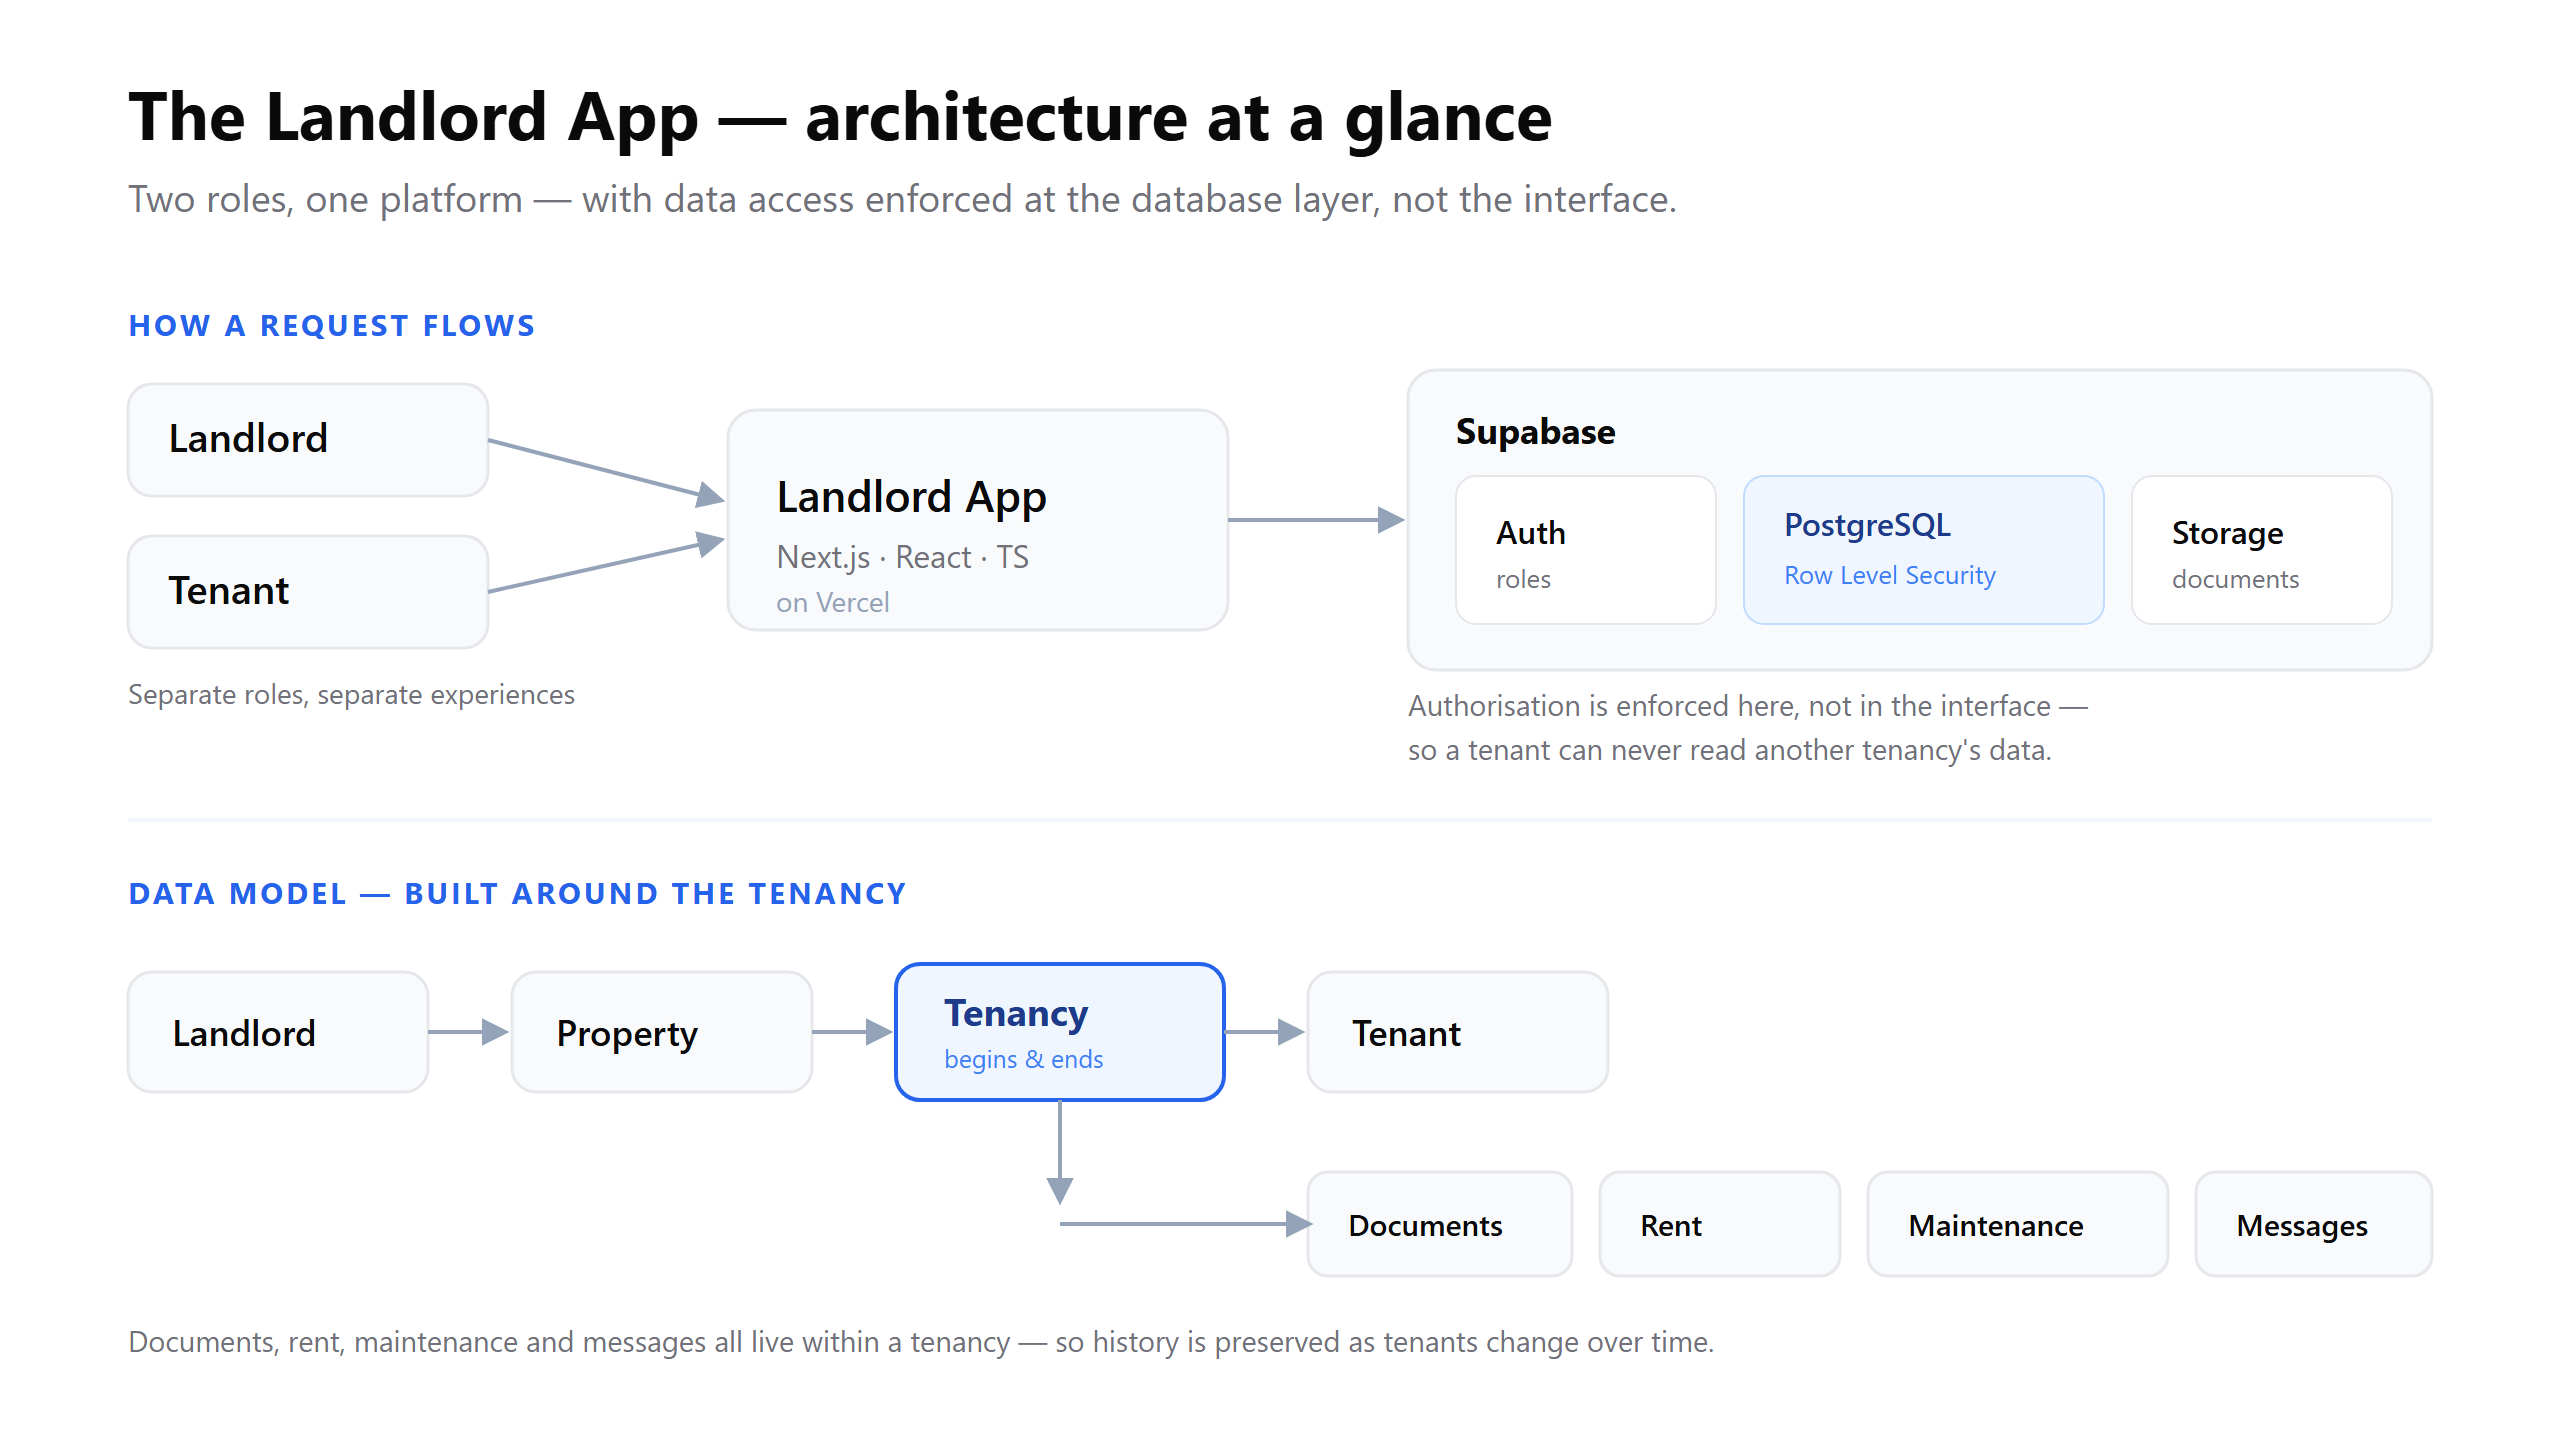
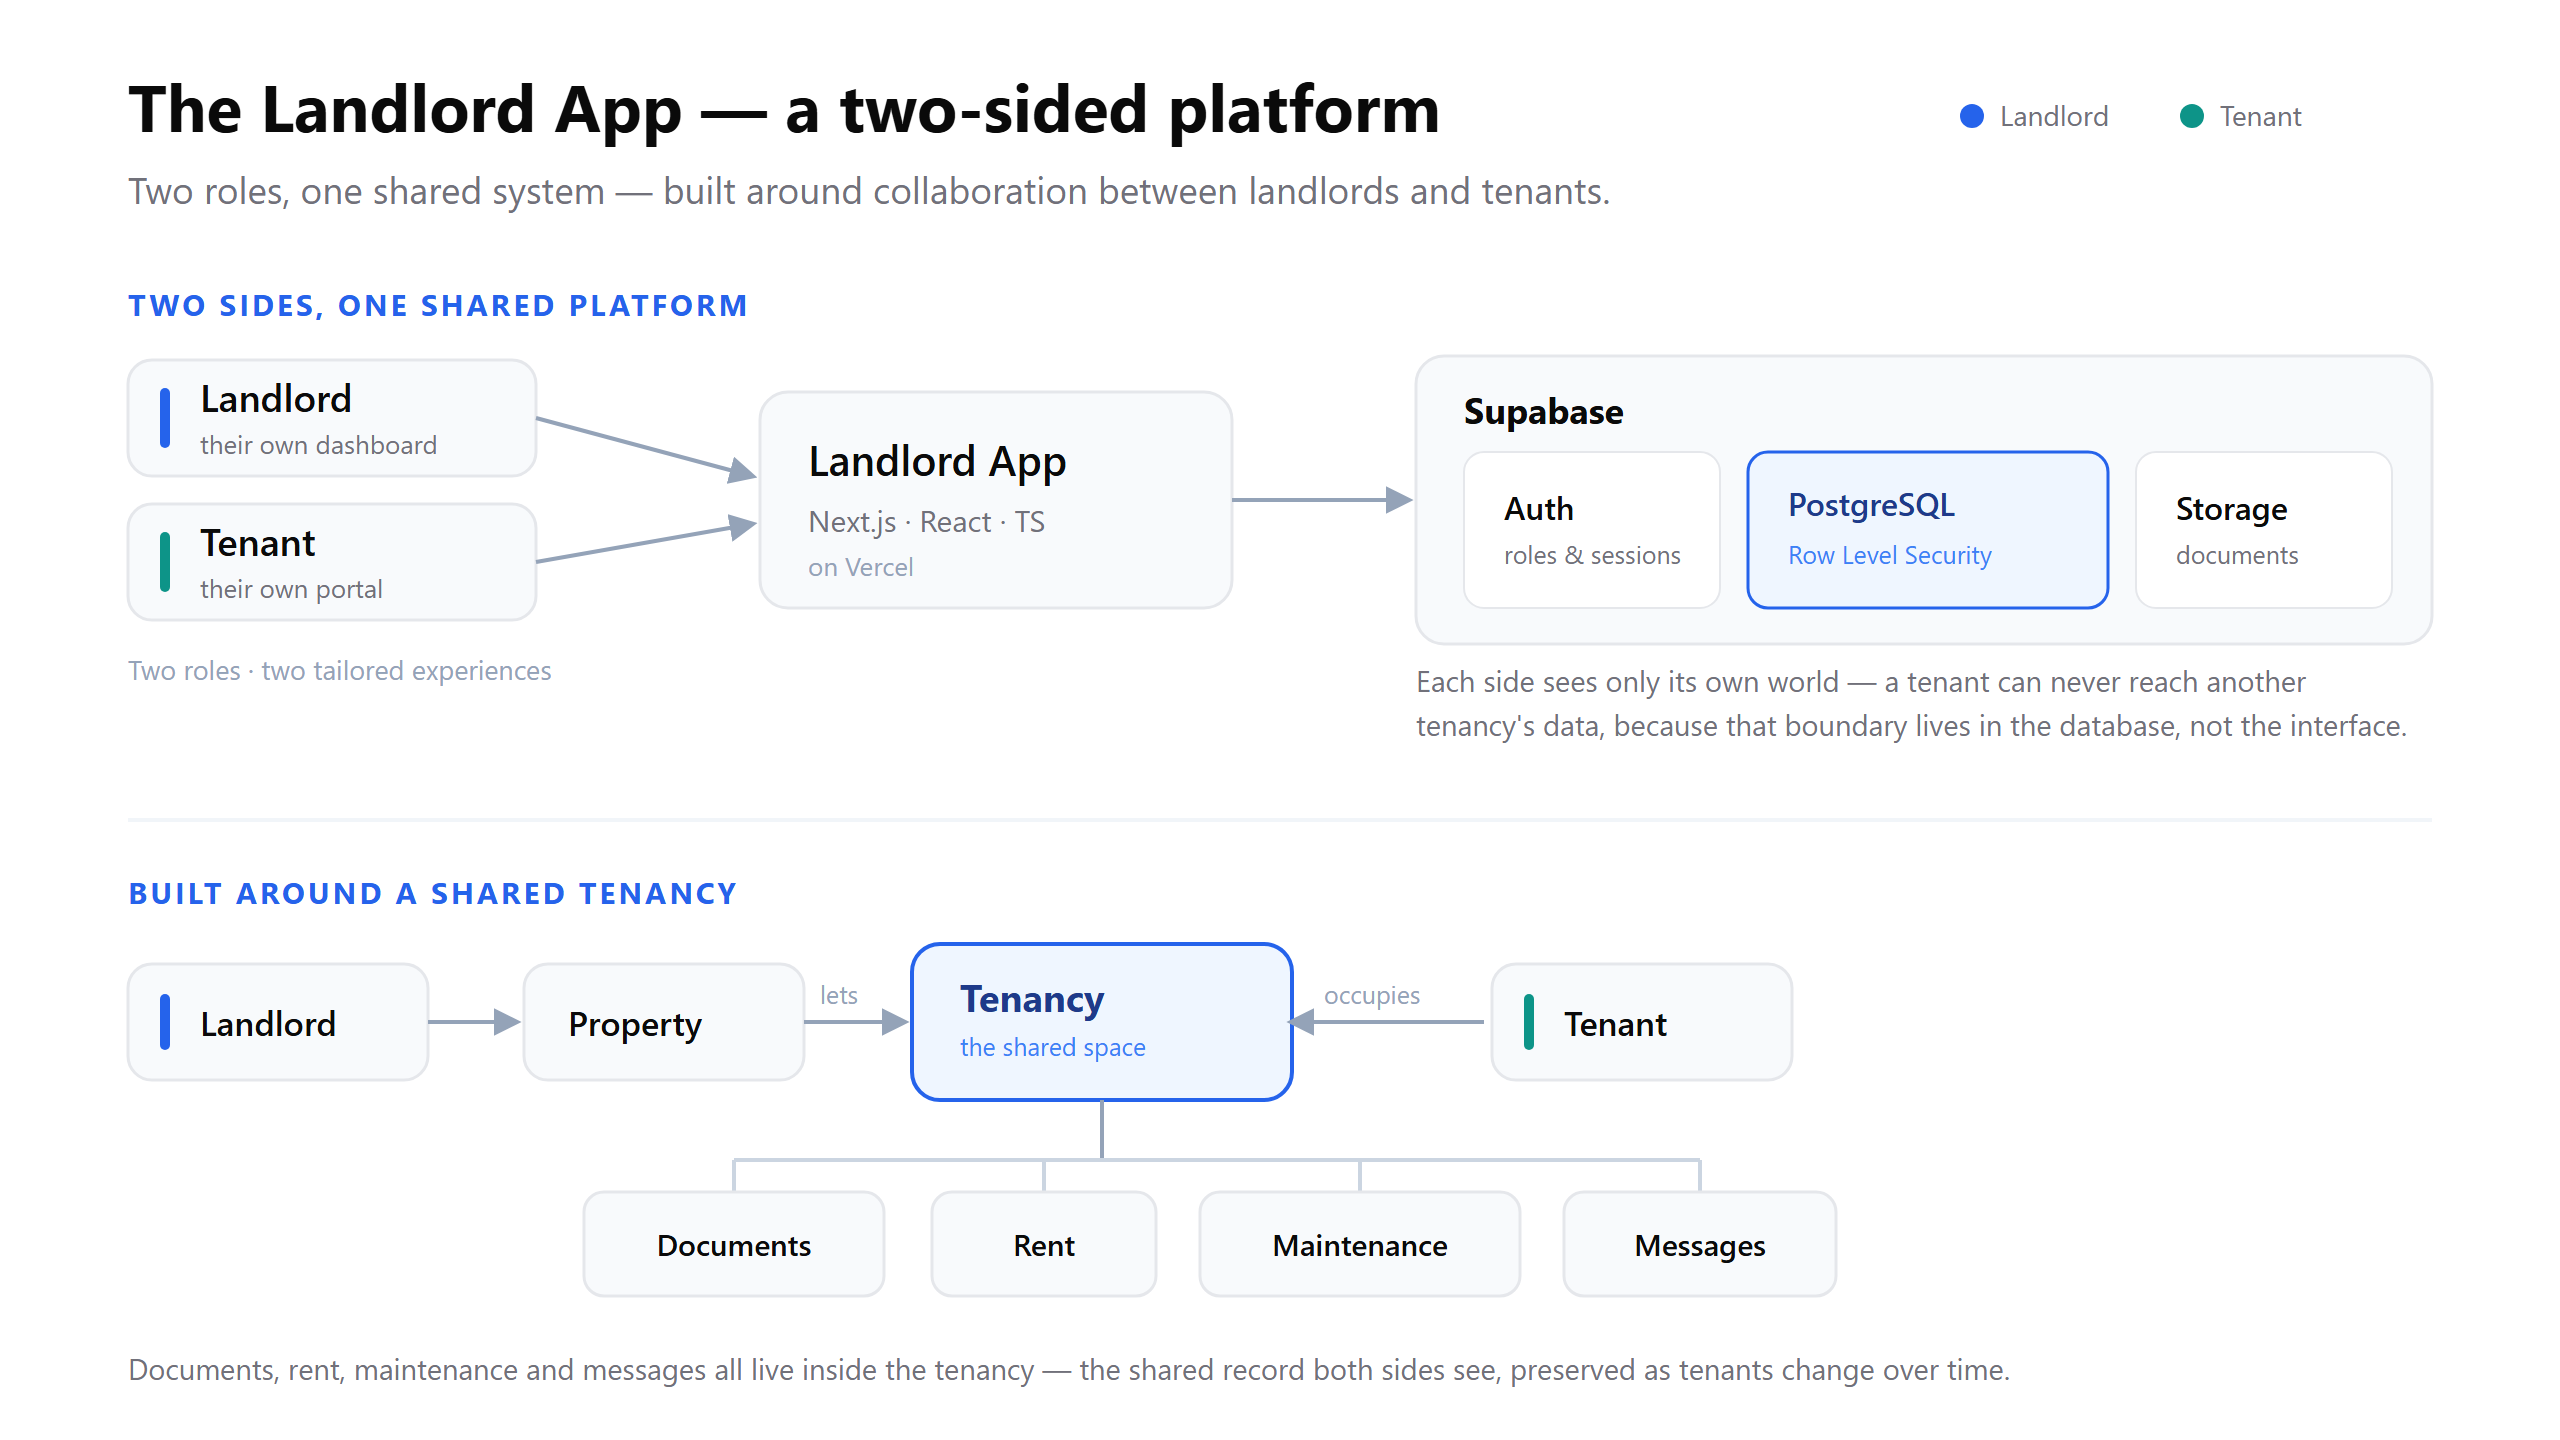
refine(landlord-app): MVP-validation framing, journey + vision sections, two-sided diagram
Review refinements ahead of publishing the flagship case study:

- Reframe current status as a deliberate MVP-validation stage rather than an
  unfinished one; evidence-over-features, validate-don't-inflate.
- Add a richer "Status: Active development · MVP validation" meta line via a new
  optional `phase` field on the project schema (keeps content/presentation
  separation; timeframe is now the plain "2026 – present").
- Add a "Why this is a turning point for me" section on the QA → full-lifecycle
  transition, and a dedicated "Where it's heading" future-vision section
  (north-star moved here from "Why it's different" to avoid repetition).
- Rewrite the closer to reinforce the philosophy: progress measured by trust
  earned, not features shipped, with quality designed in from the first decision.
- Redesign the architecture diagram to foreground the two-sided platform:
  colour-coded roles + legend, and a shared central tenancy where landlord and
  tenant meet (was a one-way chain).

Verified: format, lint, typecheck, 23 unit tests, 7 e2e (incl. axe), build.

diff --git a/src/content/projects/landlord-app.ts b/src/content/projects/landlord-app.ts
@@ -7,8 +7,9 @@ const data: Project = {
     "A two-sided property management platform for self-managing UK landlords and their tenants — and a look at how I design a product for reliability, security and long-term growth from day one.",
   category: "personal",
   status: "in-progress",
+  phase: "Active development · MVP validation",
   role: "Product, architecture, full-stack engineering & QA (solo)",
-  timeframe: "2026 · in progress",
+  timeframe: "2026 – present",
   tags: [
     "Next.js",
     "TypeScript",
@@ -19,7 +20,7 @@ const data: Project = {
   ],
   cover: {
     src: "/projects/landlord-app/architecture.png",
-    alt: "Architecture of the Landlord App: two roles and a Next.js app backed by Supabase with Row Level Security, and a data model built around the tenancy.",
+    alt: "Architecture of the Landlord App: a two-sided platform where landlords and tenants each get their own experience but share one system, backed by Supabase with Row Level Security, all built around a shared tenancy.",
   },
   featured: true,
   order: 0,
@@ -47,7 +48,7 @@ const data: Project = {
       title: "Why it's different",
       body: [
         "Most existing tools are single-sided and finance-first — built for the landlord's bookkeeping, with the tenant as a payment record. The Landlord App makes the opposite bet: a two-sided, communication-first platform where landlord and tenant work together. It targets an underserved middle — landlords too big for spreadsheets, too small to justify an agent's fee or enterprise software — and it competes on focus, not feature count, obsessing over the handful of workflows landlords perform every week.",
-        "To be clear about scope: today's product isn't a replacement for a letting agent. It's the organisational backbone that makes self-management far easier — the foundation for a longer-term vision of “a property management company in your pocket”, reached deliberately over time.",
+        "To be clear about scope: today's product isn't a replacement for a letting agent. It's the organisational backbone that makes self-management far easier — the foundation for something larger, built deliberately over time (more on that below).",
       ],
     },
     {
@@ -193,18 +194,34 @@ const data: Project = {
     },
     {
       type: "prose",
-      title: "Where it is today — and what's next",
+      title: "Where it is today: MVP validation",
       body: [
-        "The core platform is largely built — the six workflows, secure onboarding, role-based access — on a production-quality architecture, but it isn't yet ready for daily use, and I won't pretend otherwise. My near-term focus is confidence, not features: expanding automated testing around the security boundaries and critical workflows, deploying a stable MVP, and getting it in front of real landlords for feedback. At this stage, feedback is worth more than functionality.",
-        "From there the roadmap is deliberately sequenced — deepening organisation first (automated compliance reminders, richer documents and maintenance, notifications and reporting), and only later taking on higher-complexity capabilities like payments and financial tooling. Every addition has to justify its complexity. I don't measure progress by feature count; I measure it by confidence, with each phase answering a specific question before the next begins.",
+        "The product is exactly where I planned for it to be: at the smallest version that can prove the idea, ready to be validated with real landlords before it grows any further. The core is in place — the six workflows, secure onboarding, and database-enforced access control — on a production-quality architecture. This is a deliberate MVP stage, not an unfinished one: the next milestone isn't more features, it's evidence.",
+        "So my current work is intentionally narrow — hardening the automated tests around the security boundaries and critical workflows, deploying a stable MVP, and putting it in front of real landlords to learn what genuinely helps them day to day. At this stage a single piece of honest feedback is worth more than another feature, because the job right now is to validate the idea, not to inflate it.",
+      ],
+    },
+    {
+      type: "prose",
+      title: "Where it's heading",
+      body: [
+        "Beyond validation, the roadmap is sequenced by intent rather than ambition. First, deepen the organisational core — automated compliance reminders so a certificate never lapses unnoticed, richer document and maintenance handling, notifications and reporting. Only later come the higher-complexity capabilities like rent collection and financial tooling, each earning its place by justifying the complexity it adds.",
+        "The long-term vision is a genuine “property management company in your pocket” — but I'm careful to hold that as a destination, reached one validated step at a time, not a claim about what exists today. Naming where something is going is easy; the discipline is being honest about how far along the road it actually is.",
+      ],
+    },
+    {
+      type: "prose",
+      title: "Why this is a turning point for me",
+      body: [
+        "For most of the last decade, my role has been to assure the quality of software that other teams designed and built — finding the risks, strengthening what shipped, and being the person who asks “but what happens if…”. This project is where that role changes shape. Here I own the entire lifecycle: the discovery, the product decisions, the architecture, the engineering, the quality strategy and the deployment, end to end.",
+        "That's the transition this represents — from safeguarding other people's products to being fully accountable for one of my own. And it has confirmed something I long suspected: the instincts I built in QA are at their most valuable when they shape a product from its very first decision, not when they're brought in to check it at the end.",
       ],
     },
     {
       type: "prose",
       title: "What this means if you're hiring me",
       body: [
-        "This is the first product I've taken from a real-world problem through discovery, architecture, engineering, quality and deployment, entirely on my own. For years I've helped teams ship better software through QA; this shows I apply that same rigour across the whole lifecycle — and that I can build products, not just contribute to them.",
-        "More than any single technology, it reflects how I approach engineering: understand the domain, model it honestly, make deliberate trade-offs, and build quality in rather than bolt it on. Because in the end, good software isn't about the cleverest code — it's about understanding people, solving problems that matter, and making decisions that stand the test of time.",
+        "If you're deciding whether to work with me, this project is the honest answer. It's how I'd approach your product too: start from the real problem your users have, model it faithfully, weigh every trade-off against your goals, and make the decisions today that keep the software cheap to own and safe to change for years.",
+        "And it reflects the one belief that runs through everything I build: progress isn't measured by how many features you've shipped, but by how much you can trust what you've built — and that trust is designed in from the very first decision, never bolted on at the end. That's the standard I've held this project to, and exactly the standard I'd hold yours to.",
       ],
     },
   ],

diff --git a/src/content/schema.ts b/src/content/schema.ts
@@ -294,6 +294,11 @@ export const projectSchema = z.object({
   summary: z.string().min(1),
   category: z.enum(projectCategories),
   status: z.enum(projectStatuses).optional(),
+  /**
+   * Human-readable delivery phase shown in the case-study meta (e.g. "Active
+   * development (MVP)"). Complements the coarse `status` badge with specifics.
+   */
+  phase: z.string().min(1).optional(),
   role: z.string().min(1).optional(),
   timeframe: z.string().min(1).optional(),
   client: z.string().min(1).optional(),

diff --git a/src/components/projects/case-study.tsx b/src/components/projects/case-study.tsx
@@ -1,6 +1,7 @@
 import Image from "next/image";
 import Link from "next/link";
 import {
+  Activity,
   ArrowLeft,
   Briefcase,
   CalendarDays,
@@ -38,6 +39,8 @@ export function CaseStudy({
   related: Project[];
 }) {
   const meta: MetaItem[] = [];
+  if (project.phase)
+    meta.push({ icon: Activity, label: "Status", value: project.phase });
   if (project.role)
     meta.push({ icon: Briefcase, label: "Role", value: project.role });
   if (project.timeframe)
